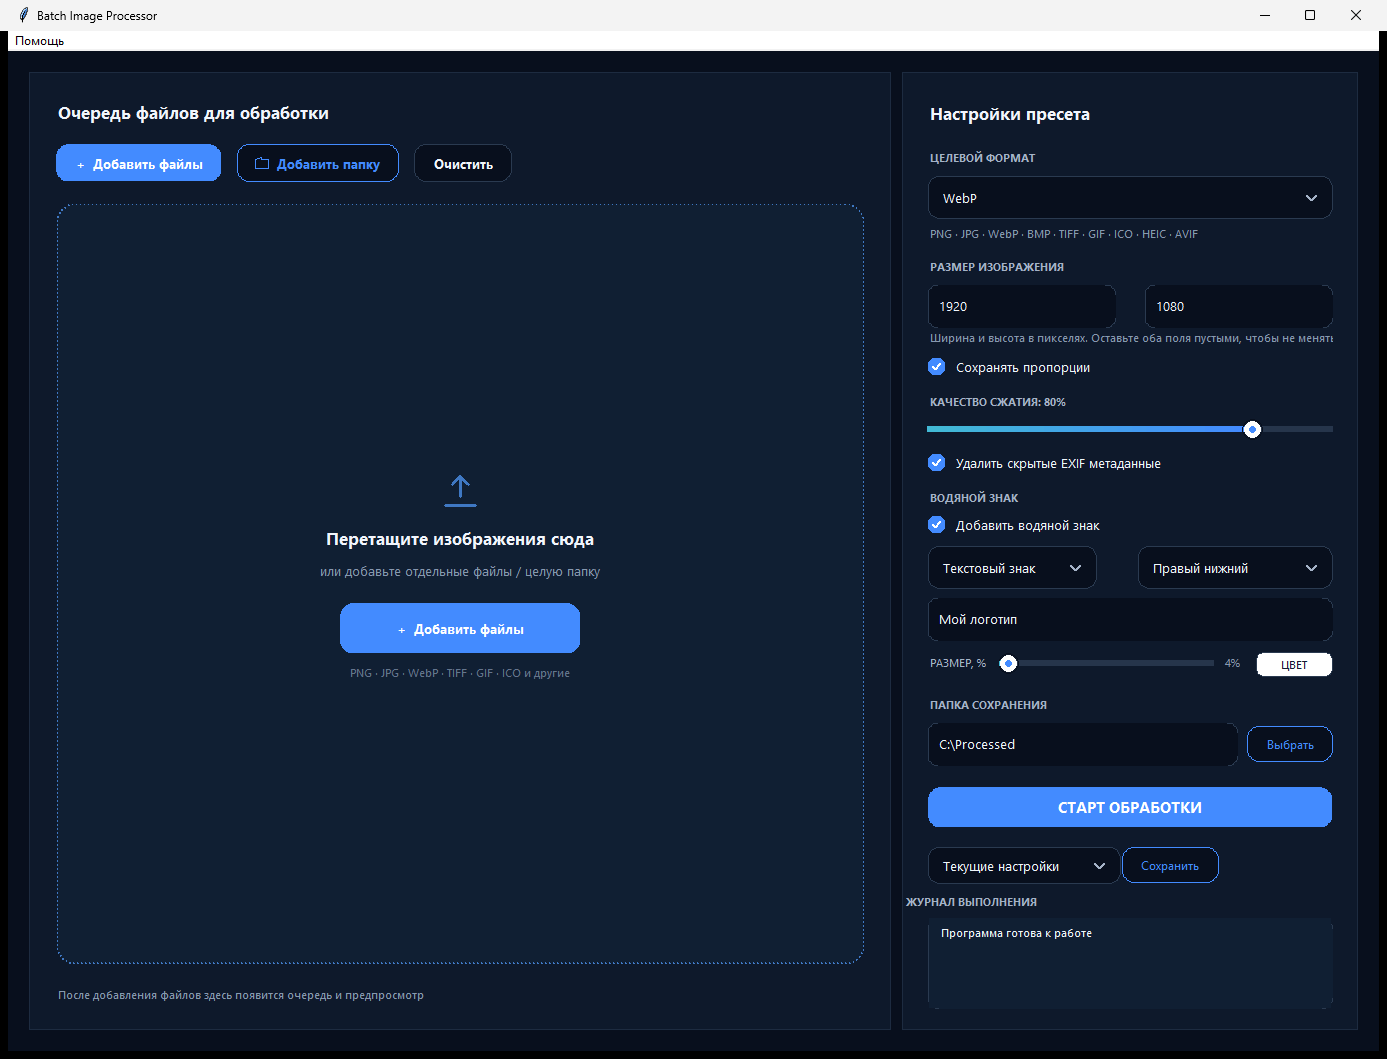
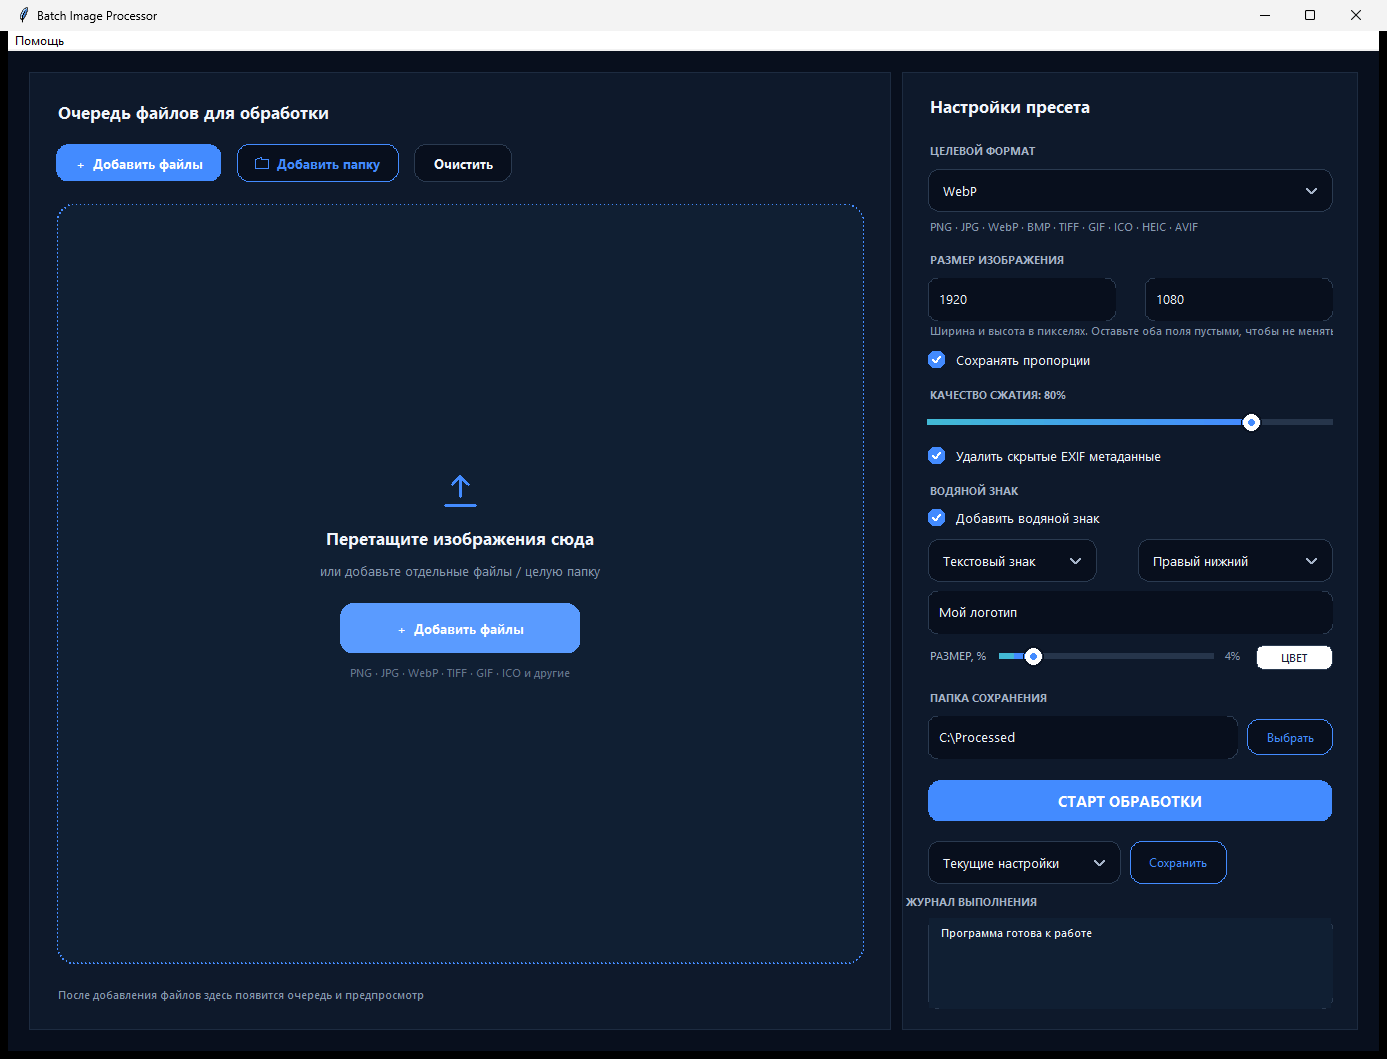
Исправлены диапазон ползунка знака и высота строки профиля
- ползунок размера водяного знака ограничен диапазоном 1–20
  процентов: раньше он позволял выставить 100, и обработчик
  отклонял такую настройку с ошибкой при запуске обработки;
- ползунок качества по-прежнему работает в диапазоне 1–100;
- высота списка профилей и кнопки Сохранить приведена к 44
  пикселям, как у остальных полей карточки настроек;
- добавлены проверки диапазонов ползунков и содержимого файла ICO.

Добавлен набор tests/test_limits_and_ico.py: 15 проверок.
Всего в проекте 249 тестов.

diff --git a/app/ui.py b/app/ui.py
@@ -118,6 +118,12 @@ POSITION_LABELS = {
 #: Внутренние отступы прокручиваемой карточки настроек, в пикселях.
 PAD = 24
 
+#: Допустимый размер водяного знака в процентах меньшей стороны.
+#: Границы совпадают с проверкой в обработчике, поэтому ползунок
+#: физически не может выдать значение, которое затем отклонит обработка.
+WATERMARK_SIZE_MIN = 1
+WATERMARK_SIZE_MAX = 20
+
 WATERMARK_TYPE_LABELS = {
     "TEXT": "Текстовый знак",
     "IMAGE": "Логотип (PNG)",
@@ -323,6 +329,7 @@ class RoundedButton(tk.Canvas):
         self._text = text
         self._icon = icon
         self._padx = padx
+        self._pady = pady
         self._enabled = True
         self._hovered = False
         self._pressed = False
@@ -343,11 +350,15 @@ class RoundedButton(tk.Canvas):
         self._draw()
 
     def _required_size(self):
-        """Вычисляет размер кнопки по тексту и иконке."""
+        """Вычисляет размер кнопки по тексту, иконке и вертикальному полю.
+
+        Высота не может стать меньше 22 пикселей надстрочника, иначе
+        короткие кнопки в строках полей стали бы ниже самих полей.
+        """
         text_width = self._measure.measure(self._text)
         icon_width = 20 if self._icon else 0
         width = text_width + icon_width + 2 * self._padx + 4
-        height = self._measure.metrics("linespace") + 22
+        height = self._measure.metrics("linespace") + max(self._pady + 10, 22)
         return int(width), int(height)
 
     def set_text(self, text) -> None:
@@ -914,19 +925,37 @@ class CheckBox(tk.Frame):
 
 
 class QualitySlider(tk.Canvas):
-    """Ползунок качества сжатия с тонкой дорожкой и круглым бегунком."""
+    """Ползунок числового параметра с тонкой дорожкой и круглым бегунком.
+
+    Используется для качества сжатия (диапазон 1–100) и для размера
+    водяного знака (диапазон 1–20), поэтому границы задаются
+    конструктором.
+    """
 
     #: Толщина дорожки в пикселях.
     TRACK = 6
     #: Радиус белой части бегунка.
     THUMB = 8
 
-    def __init__(self, parent, variable: tk.IntVar, on_change) -> None:
-        """Создаёт ползунок и привязывает его к переменной качества."""
+    def __init__(self, parent, variable: tk.IntVar, on_change,
+                 minimum: int = 1, maximum: int = 100) -> None:
+        """Создаёт ползунок и привязывает его к переменной.
+
+        Args:
+            parent: Родительский виджет.
+            variable: Переменная со значением.
+            on_change: Обработчик изменения значения.
+            minimum: Минимальное значение ползунка.
+            maximum: Максимальное значение ползунка.
+        """
         super().__init__(parent, height=24, bg=COLORS["card"],
                          highlightthickness=0, cursor="hand2")
+        if maximum <= minimum:
+            raise ValueError("Максимум ползунка должен быть больше минимума")
         self.variable = variable
         self.on_change = on_change
+        self.minimum = minimum
+        self.maximum = maximum
         self._hovered = False
         self._dragging = False
         self.bind("<Configure>", lambda _event: self._draw())
@@ -936,6 +965,20 @@ class QualitySlider(tk.Canvas):
         self.bind("<Enter>", self._enter)
         self.bind("<Leave>", self._leave)
         self._draw()
+
+    def value_from_position(self, x: int) -> int:
+        """Переводит координату курсора в значение параметра.
+
+        Args:
+            x: Горизонтальная координата внутри виджета.
+
+        Returns:
+            Значение, ограниченное диапазоном ползунка.
+        """
+        width = max(self.winfo_width(), 1)
+        ratio = max(0.0, min(1.0, x / width))
+        span = self.maximum - self.minimum
+        return int(round(self.minimum + ratio * span))
 
     def _press(self, event) -> None:
         """Начинает перетаскивание бегунка."""
@@ -958,9 +1001,8 @@ class QualitySlider(tk.Canvas):
         self._draw()
 
     def _set_from_pointer(self, event) -> None:
-        """Вычисляет значение качества по позиции курсора."""
-        width = max(self.winfo_width(), 1)
-        value = max(1, min(100, round(max(0, min(width, event.x)) / width * 100)))
+        """Вычисляет значение по позиции курсора."""
+        value = self.value_from_position(event.x)
         if value != self.variable.get():
             self.variable.set(value)
             self.on_change(value)
@@ -971,14 +1013,19 @@ class QualitySlider(tk.Canvas):
         self.delete("all")
         width = max(self.winfo_width(), 100)
         y = 12
-        value = max(1, min(100, int(self.variable.get())))
-        x = width * value / 100
+        span = max(self.maximum - self.minimum, 1)
+        current = max(self.minimum,
+                      min(self.maximum, int(self.variable.get())))
+        ratio = (current - self.minimum) / span
+        x = width * ratio
         self.create_line(0, y, width, y, fill=COLORS["track"],
                          width=self.TRACK, capstyle="round")
-        draw_gradient_bar(self, 0, x, y, COLORS["progress"], COLORS["purple"],
-                          thickness=self.TRACK)
+        if ratio > 0:
+            draw_gradient_bar(self, 0, x, y, COLORS["progress"],
+                              COLORS["purple"], thickness=self.TRACK)
         radius = self.THUMB + (2 if self._hovered or self._dragging else 0)
-        self.create_oval(x - radius - 2, y - radius - 2, x + radius + 2, y + radius + 2,
+        self.create_oval(x - radius - 2, y - radius - 2,
+                         x + radius + 2, y + radius + 2,
                          fill="", outline=COLORS["page"])
         self.create_oval(x - radius, y - radius, x + radius, y + radius,
                          fill="#FFFFFF", outline="")
@@ -986,7 +1033,7 @@ class QualitySlider(tk.Canvas):
                          outline="")
 
     def redraw(self) -> None:
-        """Обновляет положение бегунка при изменении качества извне."""
+        """Обновляет положение бегунка при изменении значения извне."""
         self._draw()
 
 
@@ -1765,7 +1812,9 @@ class MainWindow(BaseWindow):
         self.watermark_size_label.pack(side="right")
         self.watermark_size_var = tk.IntVar(value=4)
         self.watermark_size = QualitySlider(look, self.watermark_size_var,
-                                            self._on_watermark_size_change)
+                                            self._on_watermark_size_change,
+                                            minimum=WATERMARK_SIZE_MIN,
+                                            maximum=WATERMARK_SIZE_MAX)
         self.watermark_size.pack(side="left", fill="x", expand=True, padx=(10, 8))
 
         self._section_label(inner, "ПАПКА СОХРАНЕНИЯ", pady=(14, 8))
@@ -1790,12 +1839,15 @@ class MainWindow(BaseWindow):
 
         preset_row = tk.Frame(inner, bg=COLORS["card"])
         preset_row.pack(fill="x", pady=(18, 0))
+        # Высота списка приравнена к остальным полям карточки: раньше
+        # он был ниже и выглядел сжатым по сравнению с формой выше.
         self.preset_combo = self._combo(preset_row, self.preset_var, (),
-                                        state="normal", height=38,
+                                        state="normal", height=44,
                                         side="left", fill="x")
         self.preset_combo.bind("<<ComboboxSelected>>", self._load_selected_preset)
+        tk.Frame(preset_row, width=8, bg=COLORS["card"]).pack(side="left")
         self._button(preset_row, "Сохранить", self.save_preset, accent=True,
-                     font=FONTS["button_small"], pady=8, side="left")
+                     font=FONTS["button_small"], pady=19, side="left")
         # Нижний отступ, чтобы последний ряд не лип к краю прокрутки.
         tk.Frame(inner, bg=COLORS["card"], height=8).pack()
         return border

diff --git a/tests/test_limits_and_ico.py b/tests/test_limits_and_ico.py
@@ -1,0 +1,142 @@
+"""Проверки диапазонов ползунков и записи файла ICO.
+
+Набор закрывает две жалобы пользователя: ползунок размера водяного
+знака позволял выставить больше 20 процентов, из-за чего обработчик
+отклонял настройки, и требование о трёх размерах в файле ICO.
+"""
+import struct
+
+import pytest
+from PIL import Image
+
+from app.models import Preset
+from app.processor import ImageProcessor
+
+
+# --------------------------------------------- размер водяного знака (1–20)
+
+
+def test_watermark_slider_range(window) -> None:
+    """Ползунок размера знака ограничен диапазоном от 1 до 20."""
+    slider = window.watermark_size
+    assert slider.minimum == 1
+    assert slider.maximum == 20
+
+
+@pytest.mark.parametrize("position,expected", [
+    (0, 1),
+    (-500, 1),
+    (1, 1),
+    (10 ** 6, 20),
+])
+def test_watermark_slider_never_exceeds_limit(window, position, expected) -> None:
+    """Ни при каком положении курсора ползунок не выйдет за пределы.
+
+    Окно разворачивается: у скрытого окна ширина равна единице,
+    и доля положения курсора вычисляется неверно.
+    """
+    window.deiconify()
+    window.update()
+    try:
+        assert window.watermark_size.winfo_width() > 10, "окно не отрисовано"
+        assert window.watermark_size.value_from_position(position) == expected
+    finally:
+        window.withdraw()
+
+
+def test_watermark_slider_never_breaks_processing(window, tmp_path) -> None:
+    """Значение, выставленное ползунком, всегда принимается обработчиком."""
+    window.deiconify()
+    window.update()
+    slider = window.watermark_size
+    try:
+        for position in (0, 50, 200, 10 ** 6):
+            slider.variable.set(slider.value_from_position(position))
+            preset = window._build_preset()
+            ImageProcessor._validate_preset(preset)
+    finally:
+        window.withdraw()
+
+
+def test_quality_slider_keeps_full_range(window) -> None:
+    """Ползунок качества по-прежнему работает в диапазоне 1–100."""
+    assert window.slider.minimum == 1
+    assert window.slider.maximum == 100
+    assert window.slider.value_from_position(10 ** 6) == 100
+
+
+def test_slider_rejects_inverted_range(window) -> None:
+    """Ползунок с обратными границами не создаётся."""
+    from app.ui import QualitySlider
+
+    with pytest.raises(ValueError, match="больше минимума"):
+        QualitySlider(window, window.quality_var, lambda _v=None: None,
+                      minimum=100, maximum=10)
+
+
+def test_slider_tracks_value_outside_range(window) -> None:
+    """Значение вне диапазона не выводит бегунок за края дорожки."""
+    slider = window.watermark_size
+    slider.variable.set(999)
+    slider._draw()
+    slider.variable.set(-50)
+    slider._draw()
+    slider.variable.set(7)
+    slider._draw()
+
+
+# ------------------------------------------------------- файл ICO (16/32/64)
+
+
+def ico_sizes(path) -> list:
+    """Читает размеры изображений прямо из заголовка файла ICO.
+
+    Args:
+        path: Путь к файлу ICO.
+
+    Returns:
+        Отсортированный список размеров.
+    """
+    data = path.read_bytes()
+    count = struct.unpack("<H", data[4:6])[0]
+    sizes = []
+    for index in range(count):
+        offset = 6 + index * 16
+        width, height = data[offset], data[offset + 1]
+        sizes.append((width or 256, height or 256))
+    return sorted(sizes)
+
+
+@pytest.mark.parametrize("source_size", [(16, 16), (64, 64), (200, 120),
+                                          (800, 600)])
+def test_ico_always_contains_three_sizes(tmp_path, source_size) -> None:
+    """При любом исходном размере в ICO записаны 16, 32 и 64."""
+    source = tmp_path / "source.png"
+    Image.new("RGB", source_size, (180, 60, 30)).save(source)
+    result = ImageProcessor().process(
+        source, Preset(name="ico", output_format="ICO", resize_mode="NONE",
+                       resize_value="", output_dir=str(tmp_path / "out")))
+    assert ico_sizes(result) == [(16, 16), (32, 32), (64, 64)]
+    with Image.open(result) as image:
+        assert sorted(image.ico.sizes()) == [(16, 16), (32, 32), (64, 64)]
+
+
+def test_ico_sizes_survive_resize(tmp_path) -> None:
+    """Уменьшение изображения не убирает размеры из ICO."""
+    source = tmp_path / "source.png"
+    Image.new("RGB", (900, 600), (40, 120, 180)).save(source)
+    result = ImageProcessor().process(
+        source, Preset(name="ico", output_format="ICO", resize_mode="FIT",
+                       resize_value="400x400", output_dir=str(tmp_path / "out")))
+    assert ico_sizes(result) == [(16, 16), (32, 32), (64, 64)]
+
+
+def test_ico_is_square_and_transparent(tmp_path) -> None:
+    """Холст ICO квадратный и прозрачный за пределами изображения."""
+    from app.processor import ImageProcessor as Processor
+
+    canvas = Processor._prepare_ico(Image.new("RGB", (300, 150), (0, 0, 255)))
+    assert canvas.size[0] == canvas.size[1]
+    assert canvas.mode == "RGBA"
+    assert canvas.getpixel((0, 0))[3] == 0
+    assert canvas.getpixel((canvas.width // 2, canvas.height // 2))[:3] == (0, 0, 255)
